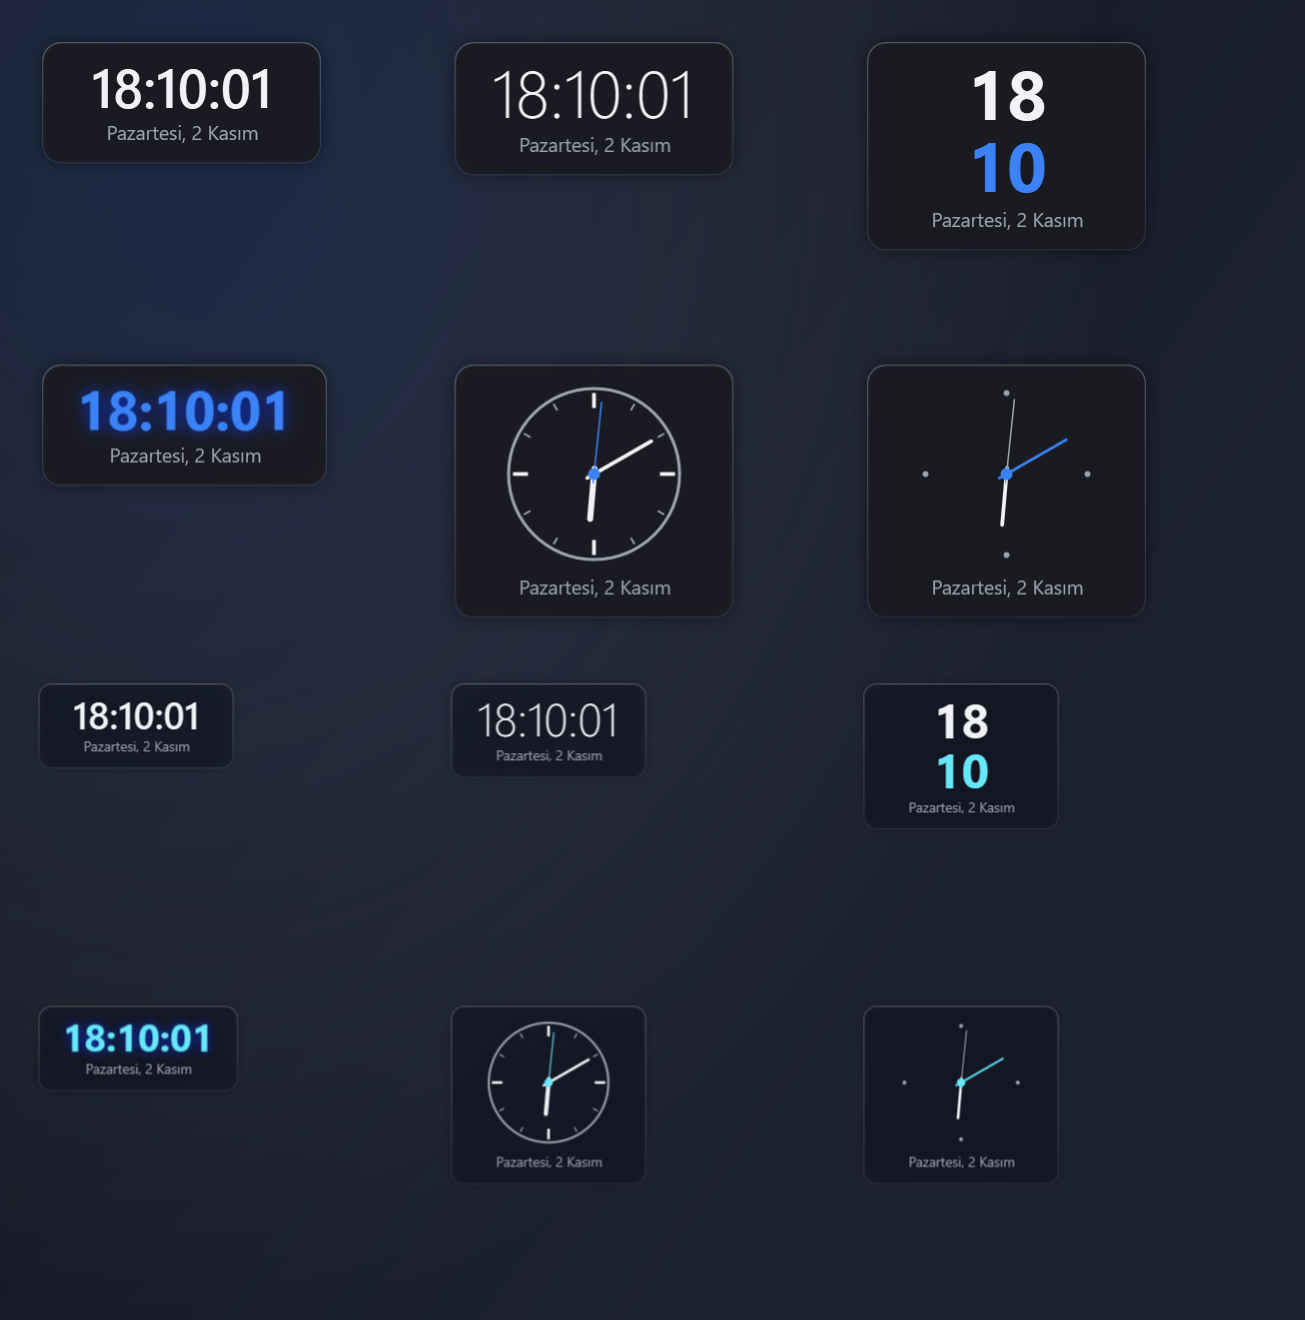
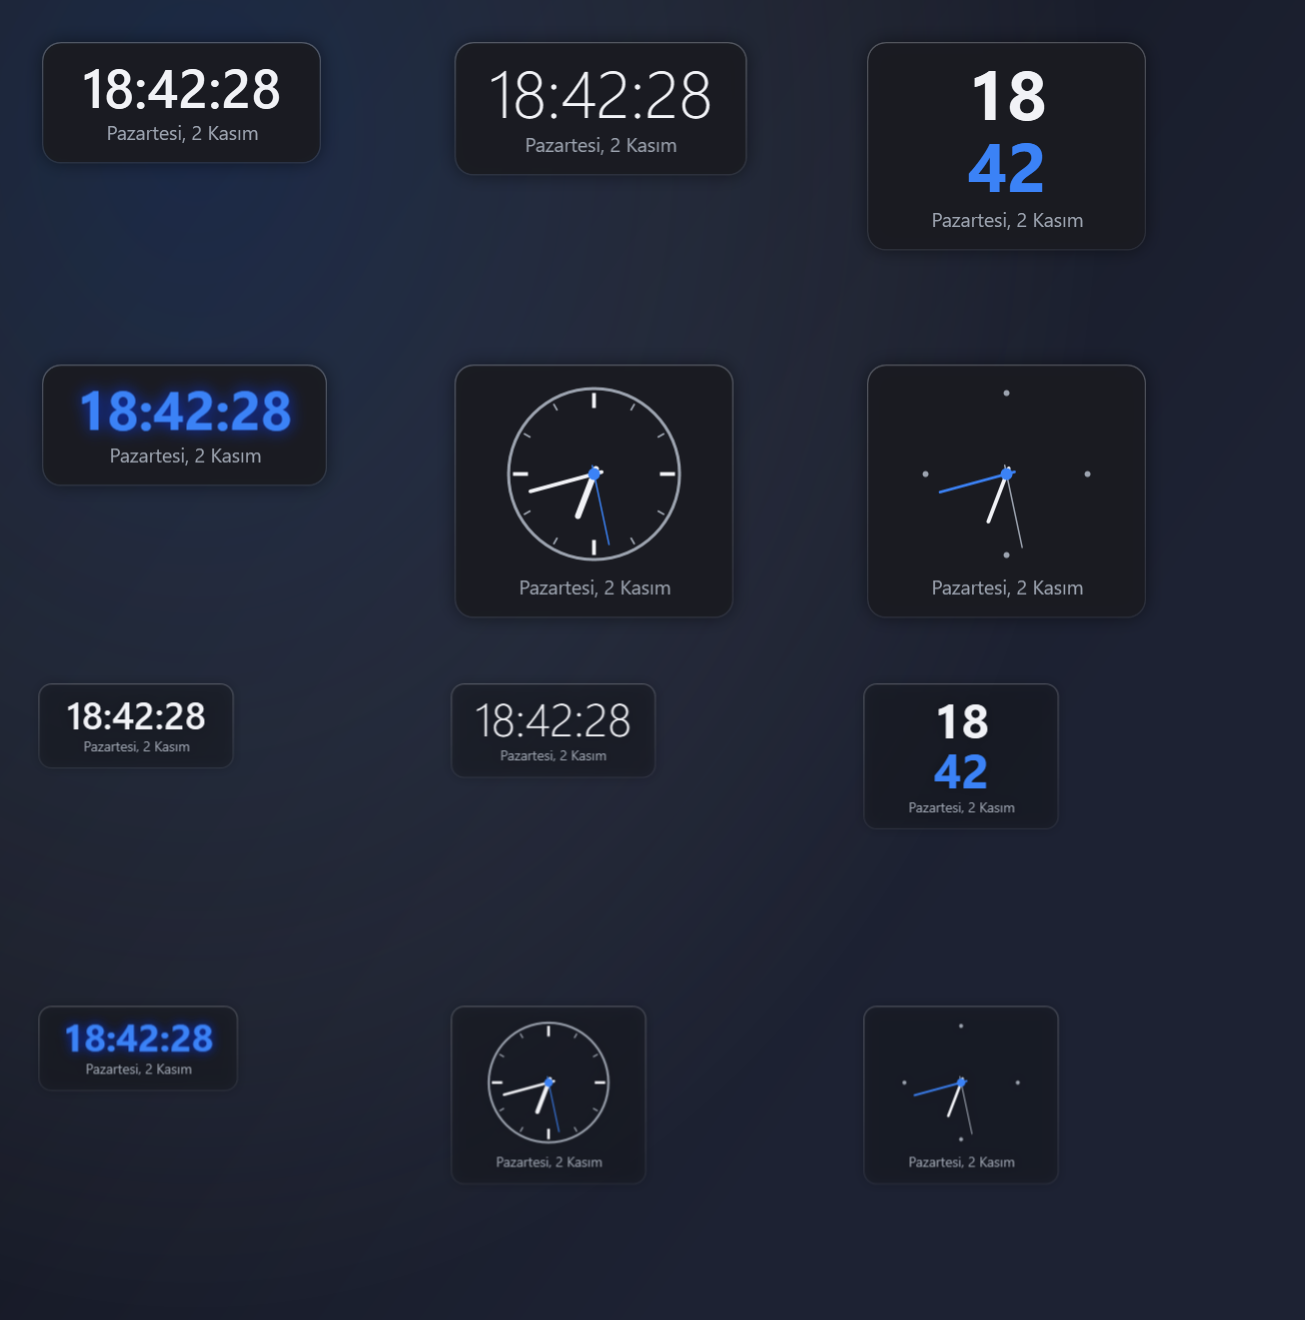
Add support for transparent widgets: implement setting, update UI, and enhance localization; version bump to 1.0.65

diff --git a/Services/WeatherService.cs b/Services/WeatherService.cs
@@ -1,4 +1,5 @@
 using System.Globalization;
+using System.IO;
 using System.Net.Http;
 using System.Text.Json;
 
@@ -38,7 +39,35 @@ public static class WeatherService
         return ParseGeocoding(await Http.GetStringAsync(url, ct).ConfigureAwait(false));
     }
 
+    /// <summary>Önce Open-Meteo; servis çökmüşse/yanıt vermiyorsa MET Norway (yedek) denenir. İkisi de başarısızsa ilk hata fırlatılır.</summary>
     public static async Task<WeatherData> FetchAsync(double latitude, double longitude, CancellationToken ct = default)
+    {
+        try
+        {
+            return await FetchOpenMeteoAsync(latitude, longitude, ct).ConfigureAwait(false);
+        }
+        catch (Exception first) when (!ct.IsCancellationRequested)
+        {
+            try
+            {
+                return await FetchMetNoAsync(latitude, longitude, ct).ConfigureAwait(false);
+            }
+            catch (Exception) when (!ct.IsCancellationRequested)
+            {
+                System.Runtime.ExceptionServices.ExceptionDispatchInfo.Capture(first).Throw();
+                throw;
+            }
+        }
+    }
+
+    private static async Task<WeatherData> FetchMetNoAsync(double latitude, double longitude, CancellationToken ct)
+    {
+        var inv = CultureInfo.InvariantCulture;
+        var url = $"https://api.met.no/weatherapi/locationforecast/2.0/compact?lat={latitude.ToString("0.####", inv)}&lon={longitude.ToString("0.####", inv)}";
+        return ParseMetNo(await Http.GetStringAsync(url, ct).ConfigureAwait(false), TimeZoneInfo.Local);
+    }
+
+    private static async Task<WeatherData> FetchOpenMeteoAsync(double latitude, double longitude, CancellationToken ct)
     {
         var inv = CultureInfo.InvariantCulture;
         var url = "https://api.open-meteo.com/v1/forecast"
@@ -46,6 +75,96 @@ public static class WeatherService
                   + "&current=temperature_2m,apparent_temperature,weather_code,wind_speed_10m,is_day"
                   + "&daily=weather_code,temperature_2m_max,temperature_2m_min&forecast_days=3&timezone=auto";
         return ParseForecast(await Http.GetStringAsync(url, ct).ConfigureAwait(false));
+    }
+
+    /// <summary>
+    /// MET Norway "locationforecast compact" yanıtını ayrıştırır (yedek kaynak). Günler <paramref name="zone"/> saatine göre bölünür
+    /// (şehrin saat dilimi bilinmediği için bilgisayarınki kullanılır); gün kodu öğleye en yakın simgeden gelir.
+    /// </summary>
+    public static WeatherData ParseMetNo(string json, TimeZoneInfo zone)
+    {
+        using var doc = JsonDocument.Parse(json);
+        var series = doc.RootElement.GetProperty("properties").GetProperty("timeseries").EnumerateArray().ToList();
+        if (series.Count == 0)
+        {
+            throw new InvalidDataException("empty forecast");
+        }
+
+        var points = new List<(DateTime Local, double Temp, double Wind, string? Symbol)>();
+        foreach (var item in series)
+        {
+            if (!DateTime.TryParse(item.GetProperty("time").GetString(), CultureInfo.InvariantCulture, DateTimeStyles.AdjustToUniversal | DateTimeStyles.AssumeUniversal, out var utc))
+            {
+                continue;
+            }
+
+            var data = item.GetProperty("data");
+            var details = data.GetProperty("instant").GetProperty("details");
+            if (!details.TryGetProperty("air_temperature", out var temp))
+            {
+                continue;
+            }
+
+            string? symbol = null;
+            foreach (var next in new[] { "next_1_hours", "next_6_hours", "next_12_hours" })
+            {
+                if (data.TryGetProperty(next, out var n) && n.TryGetProperty("summary", out var sum) && sum.TryGetProperty("symbol_code", out var code))
+                {
+                    symbol = code.GetString();
+                    break;
+                }
+            }
+
+            var wind = details.TryGetProperty("wind_speed", out var w) ? w.GetDouble() * 3.6 : 0;   // m/s -> km/h
+            points.Add((TimeZoneInfo.ConvertTimeFromUtc(utc, zone), temp.GetDouble(), wind, symbol));
+        }
+
+        if (points.Count == 0)
+        {
+            throw new InvalidDataException("no usable forecast points");
+        }
+
+        var first = points[0];
+        var (code0, isDay) = SymbolToWmo(first.Symbol);
+        var now = new WeatherNow(first.Temp, first.Temp, code0, first.Wind, isDay);
+
+        var days = new List<WeatherDay>();
+        foreach (var group in points.GroupBy(p => p.Local.Date).OrderBy(g => g.Key).Take(3))
+        {
+            var noon = group.OrderBy(p => Math.Abs(p.Local.Hour - 12)).First();
+            days.Add(new WeatherDay(group.Key, group.Min(p => p.Temp), group.Max(p => p.Temp), SymbolToWmo(noon.Symbol).Code));
+        }
+
+        return new WeatherData(now, days, DateTime.UtcNow);
+    }
+
+    /// <summary>MET Norway simge adını (ör. "partlycloudy_day", "heavyrainshowers") en yakın WMO koduna ve gündüz/gece bilgisine çevirir.</summary>
+    public static (int Code, bool IsDay) SymbolToWmo(string? symbol)
+    {
+        if (string.IsNullOrEmpty(symbol))
+        {
+            return (3, true);
+        }
+
+        var isDay = !symbol.EndsWith("_night", StringComparison.Ordinal);
+        var name = symbol.Split('_')[0];
+        var heavy = name.StartsWith("heavy", StringComparison.Ordinal);
+        var code = name switch
+        {
+            "clearsky" => 0,
+            "fair" => 1,
+            "partlycloudy" => 2,
+            "cloudy" => 3,
+            "fog" => 45,
+            _ when name.Contains("thunder") => 95,
+            _ when name.Contains("sleet") => 67,
+            _ when name.Contains("snow") && name.Contains("showers") => 85,
+            _ when name.Contains("snow") => heavy ? 75 : name.StartsWith("light", StringComparison.Ordinal) ? 71 : 73,
+            _ when name.Contains("rain") && name.Contains("showers") => heavy ? 82 : 80,
+            _ when name.Contains("rain") => heavy ? 65 : name.StartsWith("light", StringComparison.Ordinal) ? 61 : 63,
+            _ => 3
+        };
+        return (code, isDay);
     }
 
     public static IReadOnlyList<GeoPlace> ParseGeocoding(string json)

diff --git a/tests/dHud.Tests/Integration/WeatherFallbackTests.cs b/tests/dHud.Tests/Integration/WeatherFallbackTests.cs
@@ -1,0 +1,92 @@
+using System.IO;
+using System.Net.Http;
+using DHud.Services;
+using Xunit;
+
+namespace DHud.Tests.Integration;
+
+/// <summary>Hava durumu: ana servis (Open-Meteo) çökse de widget boş kalmasın diye yedek kaynak (MET Norway) çevrilir.</summary>
+public class WeatherFallbackTests
+{
+    private const string MetNoSample = """
+    {"type":"Feature","properties":{"timeseries":[
+      {"time":"2026-11-02T12:00:00Z","data":{"instant":{"details":{"air_temperature":11.4,"wind_speed":3.0}},"next_1_hours":{"summary":{"symbol_code":"partlycloudy_day"}}}},
+      {"time":"2026-11-02T15:00:00Z","data":{"instant":{"details":{"air_temperature":13.0,"wind_speed":2.0}},"next_1_hours":{"summary":{"symbol_code":"lightrain"}}}},
+      {"time":"2026-11-03T00:00:00Z","data":{"instant":{"details":{"air_temperature":4.2,"wind_speed":1.0}},"next_6_hours":{"summary":{"symbol_code":"clearsky_night"}}}},
+      {"time":"2026-11-03T12:00:00Z","data":{"instant":{"details":{"air_temperature":9.0,"wind_speed":5.0}},"next_6_hours":{"summary":{"symbol_code":"heavyrainandthunder"}}}},
+      {"time":"2026-11-04T12:00:00Z","data":{"instant":{"details":{"air_temperature":-1.5,"wind_speed":0.5}},"next_6_hours":{"summary":{"symbol_code":"snow"}}}}
+    ]}}
+    """;
+
+    [Fact]
+    public void MetNo_forecast_becomes_current_conditions_and_three_days_in_the_given_zone()
+    {
+        var data = WeatherService.ParseMetNo(MetNoSample, TimeZoneInfo.Utc);
+
+        Assert.Equal(11.4, data.Now.Temperature);
+        Assert.Equal(2, data.Now.Code);
+        Assert.True(data.Now.IsDay);
+        Assert.Equal(10.8, data.Now.WindKmh, 1);   // 3 m/s
+        Assert.Equal(3, data.Days.Count);
+        Assert.Equal(new DateTime(2026, 11, 2), data.Days[0].Date);
+        Assert.Equal(11.4, data.Days[0].Min);
+        Assert.Equal(13.0, data.Days[0].Max);
+        Assert.Equal(4.2, data.Days[1].Min);
+        Assert.Equal(95, data.Days[1].Code);
+        Assert.Equal(-1.5, data.Days[2].Min);
+        Assert.Equal("snow", WeatherService.Kind(data.Days[2].Code));
+    }
+
+    [Theory]
+    [InlineData("clearsky_day", 0, true)]
+    [InlineData("clearsky_night", 0, false)]
+    [InlineData("fair_polartwilight", 1, true)]
+    [InlineData("cloudy", 3, true)]
+    [InlineData("fog", 45, true)]
+    [InlineData("lightrain", 61, true)]
+    [InlineData("heavyrain", 65, true)]
+    [InlineData("rainshowers_day", 80, true)]
+    [InlineData("heavyrainshowers_night", 82, false)]
+    [InlineData("sleet", 67, true)]
+    [InlineData("lightsnow", 71, true)]
+    [InlineData("snowshowers_day", 85, true)]
+    [InlineData("rainandthunder", 95, true)]
+    [InlineData("lightssleetshowersandthunder_day", 95, true)]
+    [InlineData("", 3, true)]
+    [InlineData(null, 3, true)]
+    [InlineData("somethingnew", 3, true)]
+    public void Symbols_map_to_a_wmo_code_and_day_night(string? symbol, int code, bool day) =>
+        Assert.Equal((code, day), WeatherService.SymbolToWmo(symbol));
+
+    [Theory]
+    [InlineData("{}")]
+    [InlineData("{\"properties\":{\"timeseries\":[]}}")]
+    [InlineData("not json")]
+    public void A_broken_or_empty_fallback_response_throws_instead_of_showing_nonsense(string json) =>
+        Assert.ThrowsAny<Exception>(() => WeatherService.ParseMetNo(json, TimeZoneInfo.Utc));
+
+    /// <summary>Gerçek ağ: Ankara için tam yol (ana servis çökükse yedek). İnternet yoksa sessizce geçer; varsa mutlaka veri gelmeli.</summary>
+    [Fact]
+    [Trait(Cat.Name, Cat.Integration)]
+    public async Task Ankara_weather_can_be_fetched_from_at_least_one_provider()
+    {
+        WeatherData data;
+        try
+        {
+            data = await WeatherService.FetchAsync(39.9199, 32.8543);
+        }
+        catch (HttpRequestException)
+        {
+            return;   // bu makinede internet yok
+        }
+
+        if (Environment.GetEnvironmentVariable("DHUD_WX_OUT") is { Length: > 0 } outPath)
+        {
+            File.WriteAllText(outPath, $"{data.Now.Temperature}C code {data.Now.Code} days {data.Days.Count}");
+        }
+
+        Assert.InRange(data.Now.Temperature, -40, 55);
+        Assert.NotEmpty(data.Days);
+        Assert.All(data.Days, d => Assert.True(d.Max >= d.Min));
+    }
+}

diff --git a/tests/dHud.Tests/Unit/ClockAndScaleTests.cs b/tests/dHud.Tests/Unit/ClockAndScaleTests.cs
@@ -62,7 +62,7 @@ public class ClockAndScaleTests
             foreach (var language in new[] { AppLanguage.English, AppLanguage.Turkish })
             {
                 Loc.Current = language;
-                foreach (var key in ClockStyles.All.Select(id => "Clock." + id).Concat(["W.ClockStyle", "W.ClockPrev", "W.ClockNext", "S.WidgetScale", "S.WidgetScaleHint", "Theme.glass"]))
+                foreach (var key in ClockStyles.All.Select(id => "Clock." + id).Concat(["W.ClockStyle", "W.ClockPrev", "W.ClockNext", "S.WidgetScale", "S.WidgetScaleHint", "S.WidgetTransparent", "S.WidgetTransparentHint"]))
                 {
                     var text = Loc.T(key);
                     Assert.False(string.IsNullOrWhiteSpace(text) || text == key, $"{key} çevirisi eksik ({language})");
@@ -76,12 +76,11 @@ public class ClockAndScaleTests
     }
 
     [Fact]
-    public void The_glass_theme_is_translucent_and_the_others_stay_nearly_opaque()
+    public void Transparency_is_a_separate_off_by_default_switch_and_every_theme_stays_nearly_opaque()
     {
-        var glass = WidgetThemes.Get("glass");
-        Assert.Equal("glass", glass.Id);
-        Assert.InRange(glass.Card.A, 0x40, 0xA0);
-        Assert.All(WidgetThemes.All.Where(t => t.Id != "glass"), t => Assert.True(t.Card.A >= 0xE0, t.Id));
+        Assert.False(new AppSettings().WidgetTransparent);
+        Assert.Null(WidgetThemes.All.FirstOrDefault(t => t.Id == "glass"));
+        Assert.All(WidgetThemes.All, t => Assert.True(t.Card.A >= 0xE0, t.Id));
     }
 
     [Fact]

diff --git a/Services/ScreenshotGenerator.cs b/Services/ScreenshotGenerator.cs
@@ -274,14 +274,14 @@ internal static class ScreenshotGenerator
         var s = app.Settings.Current;
         var items = new List<(BitmapSource Image, Point At)>();
         var windows = new List<Window>();
-        var (theme, scale, zone) = (s.WidgetTheme, s.WidgetScale, s.ClockZone);
+        var (scale, zone, transparent) = (s.WidgetScale, s.ClockZone, s.WidgetTransparent);
         s.ClockZone = string.Empty;
         s.ClockSeconds = true;
         try
         {
             for (var row = 0; row < 2; row++)
             {
-                s.WidgetTheme = row == 0 ? theme : "glass";
+                s.WidgetTransparent = row == 1;
                 s.WidgetScale = row == 0 ? 1.0 : 0.7;
                 WidgetGrid.SetScale(s.WidgetScale);
                 for (var i = 0; i < ClockStyles.All.Count; i++)
@@ -295,7 +295,7 @@ internal static class ScreenshotGenerator
         }
         finally
         {
-            s.WidgetTheme = theme;
+            s.WidgetTransparent = transparent;
             s.WidgetScale = scale;
             s.ClockZone = zone;
             s.ClockStyle = ClockStyles.Default;

diff --git a/Widgets/WidgetWindowBase.cs b/Widgets/WidgetWindowBase.cs
@@ -21,6 +21,7 @@ public abstract class WidgetWindowBase : Window
     private const double SnapDistance = 24;
     private const double CornerMargin = 16;
     private const double CardPad = 8; // kartın etrafındaki gölge payı
+    private const byte TransparentAlpha = 0x70; // "Widget'lar saydam olsun" açıkken kart zemini opaklığı
 
     private Color _cardColor = Color.FromArgb(0xF2, 0x1A, 0x1B, 0x22);
     private IntPtr _hwnd;
@@ -150,7 +151,9 @@ public abstract class WidgetWindowBase : Window
         }
 
         var theme = WidgetThemes.Get(App.Current.Settings.Current.WidgetTheme);
-        _cardColor = theme.Card;
+        _cardColor = App.Current.Settings.Current.WidgetTransparent
+            ? Color.FromArgb(TransparentAlpha, theme.Card.R, theme.Card.G, theme.Card.B)
+            : theme.Card;
         Resources["AccentColor"] = theme.Accent;
         Resources["AccentBrush"] = new SolidColorBrush(theme.Accent);
 

diff --git a/Services/Loc.cs b/Services/Loc.cs
@@ -366,7 +366,8 @@ public static class Loc
         ["Theme.violet"] = ("Violet", "Mor"),
         ["Theme.amber"] = ("Amber", "Kehribar"),
         ["Theme.teal"] = ("Teal", "Turkuaz"),
-        ["Theme.glass"] = ("Glass", "Cam"),
+        ["S.WidgetTransparent"] = ("Transparent widgets", "Widget'lar saydam olsun"),
+        ["S.WidgetTransparentHint"] = ("Makes the cards of all widgets see-through so the desktop shows behind them. Text stays fully readable.", "Tüm widget kartlarını saydam yapar, arkadaki masaüstü görünür. Yazılar okunaklı kalır."),
         ["S.WidgetScale"] = ("WIDGET SIZE", "WIDGET BOYUTU"),
         ["S.WidgetScaleHint"] = ("Shrinks every widget together. Use a smaller size on large or high-resolution screens.", "Tüm widget'ları birlikte küçültür. Büyük veya yüksek çözünürlüklü ekranlarda daha küçük boyut kullan."),
         ["W.ClockStyle"] = ("Clock style", "Saat stili"),

diff --git a/Widgets/WidgetThemes.cs b/Widgets/WidgetThemes.cs
@@ -19,8 +19,6 @@ public static class WidgetThemes
         new("violet", "Theme.violet", Color.FromArgb(0xF2, 0x1E, 0x17, 0x30), Color.FromRgb(0xA7, 0x8B, 0xFA), false),
         new("amber", "Theme.amber", Color.FromArgb(0xF2, 0x25, 0x1E, 0x12), Color.FromRgb(0xFA, 0xCC, 0x15), false),
         new("teal", "Theme.teal", Color.FromArgb(0xF2, 0x10, 0x25, 0x2A), Color.FromRgb(0x2D, 0xD4, 0xBF), false),
-        // Cam: çok saydam, hafif mavimsi kart; arkadaki masaüstü belli olur (yazı okunsun diye zemin yine koyu tonlu).
-        new("glass", "Theme.glass", Color.FromArgb(0x78, 0x10, 0x16, 0x24), Color.FromRgb(0x67, 0xE8, 0xF9), false),
         new("light", "Theme.light", Color.FromArgb(0xF2, 0xF3, 0xF4, 0xF8), Color.FromRgb(0x25, 0x63, 0xEB), true)
     ];
 

diff --git a/Services/SettingsService.cs b/Services/SettingsService.cs
@@ -180,6 +180,9 @@ public sealed class AppSettings
     /// <summary>Tüm widget'ların ortak ölçeği (0.5–1.0); büyük ekranlarda widget'lar daha az yer kaplasın.</summary>
     public double WidgetScale { get; set; } = 1.0;
 
+    /// <summary>Tüm widget kartları saydam olsun (tema renkleri korunur, yalnızca kart zemini saydamlaşır).</summary>
+    public bool WidgetTransparent { get; set; }
+
     /// <summary>Saat widget'ında ikinci saat dilimi (Windows saat dilimi kimliği; boş = yok).</summary>
     public string ClockZone { get; set; } = string.Empty;
 

diff --git a/SettingsWindow.xaml.cs b/SettingsWindow.xaml.cs
@@ -448,6 +448,10 @@ public partial class SettingsWindow : Window
         hint.SetResourceReference(StyleProperty, "HintText");
         hint.Margin = new Thickness(0, 4, 0, 0);
         panel.Children.Add(hint);
+        var transparent = WidgetCheck("S.WidgetTransparent", () => _settings.Current.WidgetTransparent, v => _settings.Current.WidgetTransparent = v);
+        transparent.Margin = new Thickness(0, 8, 0, 2);
+        transparent.ToolTip = Loc.T("S.WidgetTransparentHint");
+        panel.Children.Add(transparent);
         return panel;
     }
 

diff --git a/Widgets/WeatherWidgetWindow.cs b/Widgets/WeatherWidgetWindow.cs
@@ -15,7 +15,7 @@ namespace DHud.Widgets;
 public sealed class WeatherWidgetWindow : WidgetWindowBase
 {
     private static readonly TimeSpan RefreshEvery = TimeSpan.FromMinutes(30);
-    private static readonly TimeSpan RetryAfterError = TimeSpan.FromMinutes(5);
+    private static readonly TimeSpan RetryAfterError = TimeSpan.FromMinutes(2);
 
     // Aynı şehir için son veri uygulama boyunca bellekte kalır: pencere kapanıp açılınca hemen görünür, sunucuya gereksiz istek gitmez.
     private static WeatherData? _cache;

diff --git a/README.tr.md b/README.tr.md
@@ -73,7 +73,7 @@ Bar isteğe bağlıdır: aynı değerleri gösteren **Sistem** widget'ını terc
 
 **Widget kapanınca boşluk kapanır:** bir widget'ı kapattığında altındakiler yukarı kayıp yerini doldurur; *Ayarlar*'dan geri açınca hepsi eski yerine döner. Bu arada kendin taşıdığın bir widget bıraktığın yerde kalır. *Ayarlar → Widget'lar* sayfasının üstünden kapatabilirsin.
 
-**Renk temaları:** *Ayarlar → Widget'lar* sayfasının üstünden dokuz temadan birini seç (Grafit, Gece mavisi, Orman, Şarap, Mor, Kehribar, Turkuaz, saydam Cam teması ve Açık tema). Tüm widget'ların kart ve vurgu rengini birlikte değiştirir; yapışkan notlar kendi renklerini korur.
+**Renk temaları:** *Ayarlar → Widget'lar* sayfasının üstünden sekiz temadan birini seç (Grafit, Gece mavisi, Orman, Şarap, Mor, Kehribar, Turkuaz ve Açık tema). Tüm widget'ların kart ve vurgu rengini birlikte değiştirir. Renklerin altındaki **Widget'lar saydam olsun** kutusu, hangi tema seçili olursa olsun tüm kartları saydam yapar; yapışkan notlar kendi renklerini korur.
 
 **Widget boyutu:** temaların altındaki *Widget boyutu* kaydırıcısı (%50–100) tüm widget'ları birlikte küçültür; widget'ların masaüstünün çoğunu kapladığı büyük veya yüksek çözünürlüklü ekranlarda işe yarar. Otomatik ve elle boyutlandırılmış kartların ikisini de ölçekler.
 
@@ -82,7 +82,7 @@ Bar isteğe bağlıdır: aynı değerleri gösteren **Sistem** widget'ını terc
 <p align="center"><img src="docs/images/widgets-tr.png" alt="Diğer widget'lar" /></p>
 
 <p align="center"><img src="docs/images/widgets-more-tr.png" alt="Medya oynatıcı, görev yöneticisi, borsa, not defteri ve pil widget'ları" /></p>
-<p align="center"><img src="docs/images/clock-styles-tr.png" width="560" alt="Altı saat stili: varsayılan temada (üst) ve %70 boyutlu Cam temasında (alt)" /></p>
+<p align="center"><img src="docs/images/clock-styles-tr.png" width="560" alt="Altı saat stili: varsayılan temada (üst) ve saydam widget'larla ve %70 boyutta (alt)" /></p>
 
 | Widget | Ne yapar |
 | --- | --- |

diff --git a/README.md b/README.md
@@ -73,7 +73,7 @@ The bar is optional: if you prefer the **System** widget (same values), turn the
 
 **Closing a widget closes its gap:** when you hide a widget, the widgets below it slide up into its place; when you show it again from Settings, they all go back where they were. A widget you moved yourself in between stays where you put it. You can turn this off at the top of *Settings → Widgets*.
 
-**Colour themes:** pick one of nine (Graphite, Midnight, Forest, Wine, Violet, Amber, Teal, a see-through Glass theme and a Light theme) at the top of *Settings → Widgets*. It changes the card and accent colour of all widgets at once; sticky notes keep their own colours.
+**Colour themes:** pick one of eight (Graphite, Midnight, Forest, Wine, Violet, Amber, Teal and a Light theme) at the top of *Settings → Widgets*. It changes the card and accent colour of all widgets at once. The **Transparent widgets** checkbox below the colours makes every card see-through, in any theme; sticky notes keep their own colours.
 
 **Widget size:** the *Widget size* slider (50–100 %) under the themes shrinks every widget together, handy on large or high-resolution screens where the widgets cover too much of the desktop. It scales automatic and resized cards alike.
 
@@ -82,7 +82,7 @@ The bar is optional: if you prefer the **System** widget (same values), turn the
 <p align="center"><img src="docs/images/widgets.png" alt="More widgets" /></p>
 
 <p align="center"><img src="docs/images/widgets-more.png" alt="Media player, task manager, markets, notepad and battery widgets" /></p>
-<p align="center"><img src="docs/images/clock-styles.png" width="560" alt="The six clock styles, in the default theme (top) and in the Glass theme at 70 % size (bottom)" /></p>
+<p align="center"><img src="docs/images/clock-styles.png" width="560" alt="The six clock styles, in the default theme (top) and with transparent widgets at 70 % size (bottom)" /></p>
 
 | Widget | What it does |
 | --- | --- |
